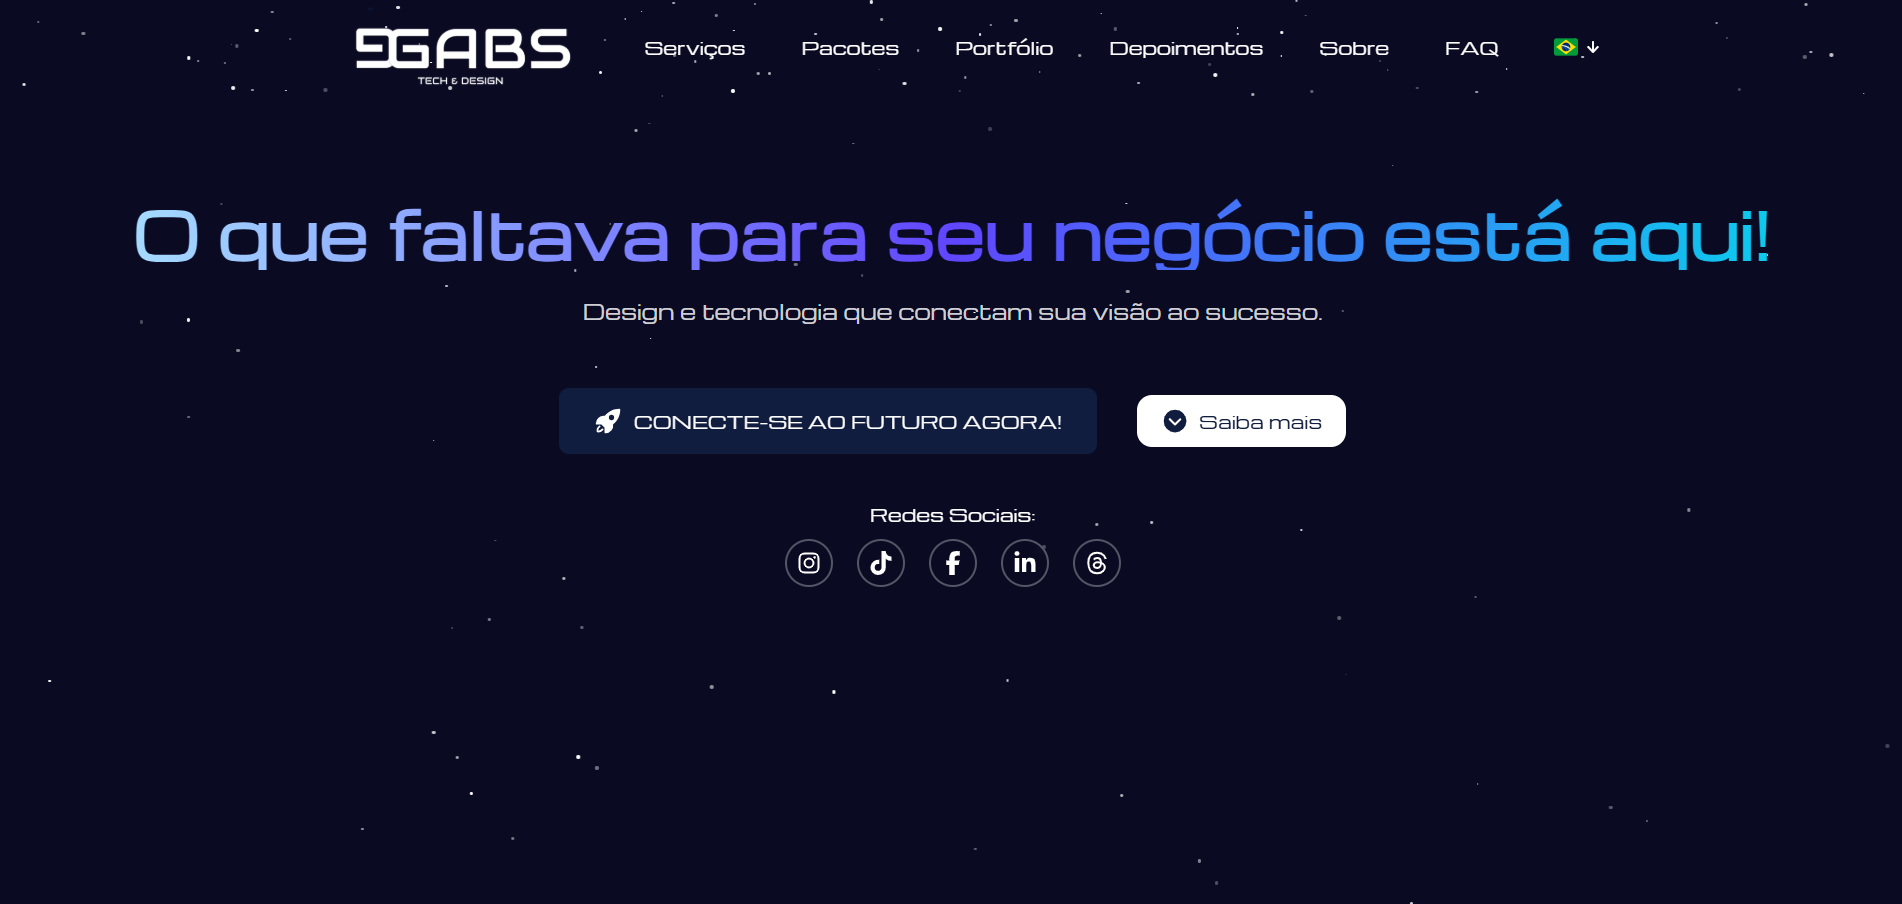
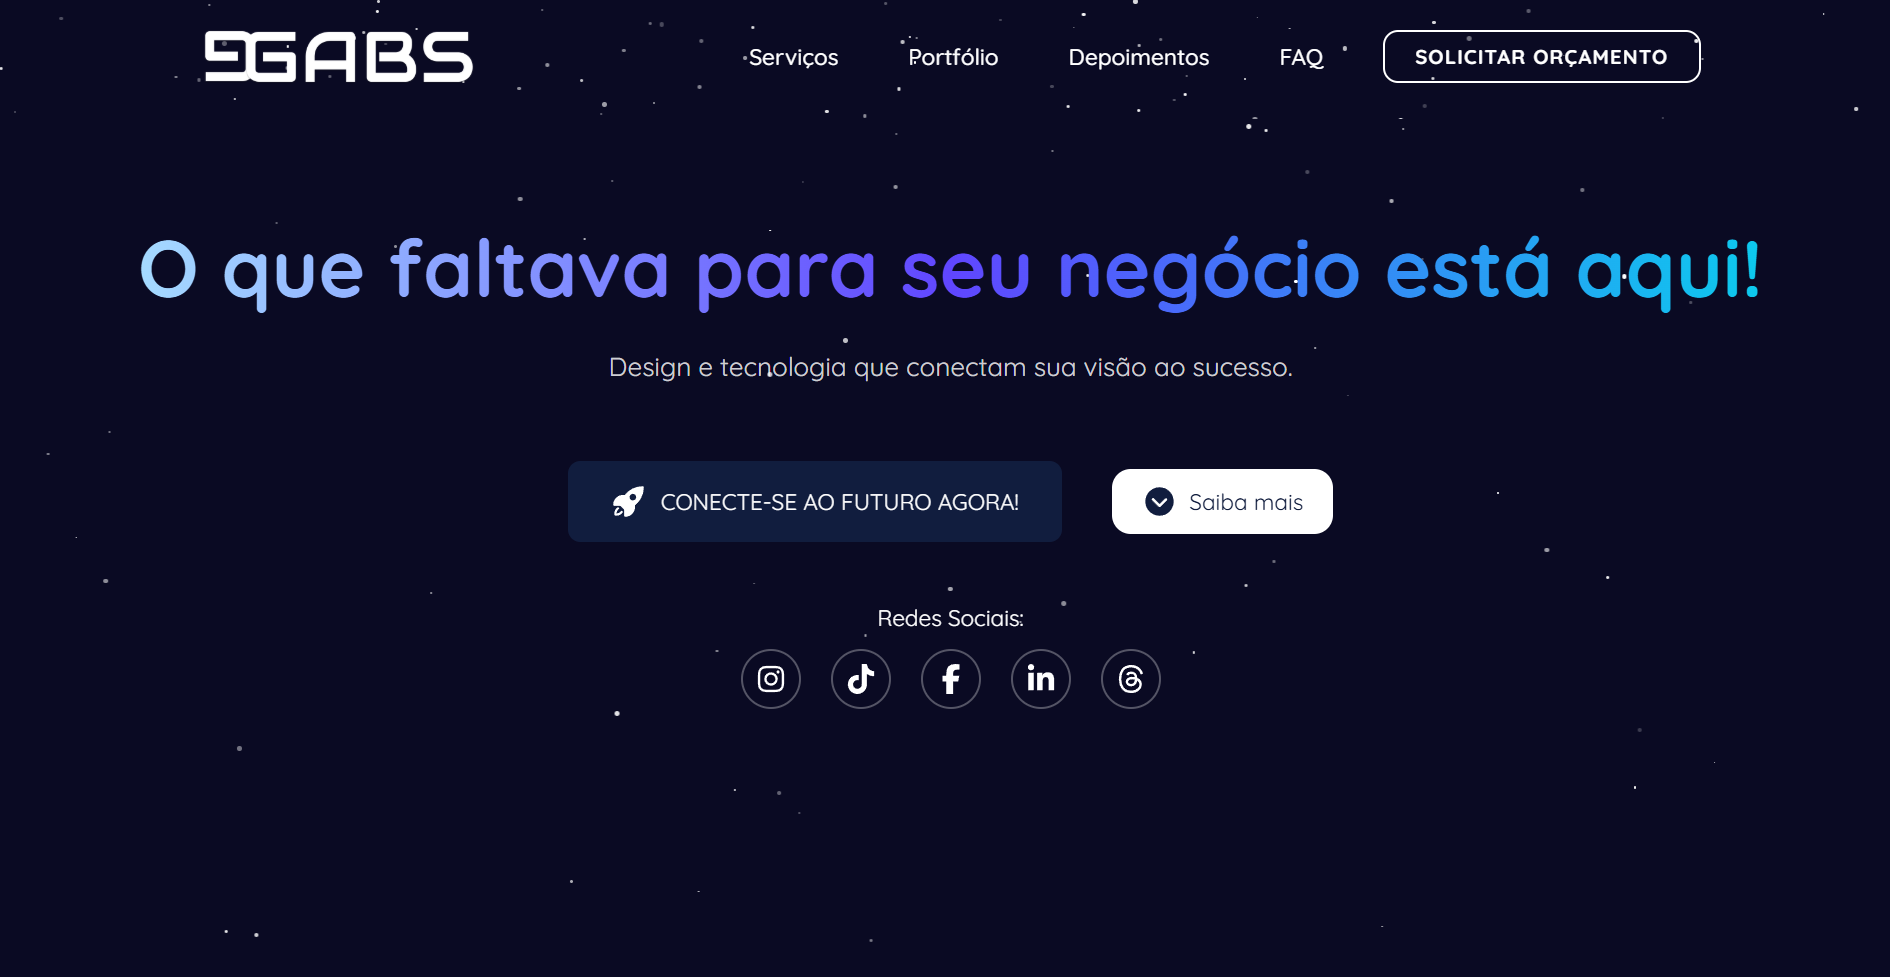
atualização dos projetos e habilidades

diff --git a/src/lib/projects-data.ts b/src/lib/projects-data.ts
@@ -9,8 +9,67 @@ import PORTFOLIOV1 from '../../public/PORTFOLIOV1.png';
 import PORTFOLIOV2 from '../../public/PORTFOLIOV2.png';
 import GGABSTECHDESIGN from '../../public/GGABSTECHDESIGN.png';
 import Caredmindedu from '../../public/CaremindEdu.png';
+import CLARAVILELA from '../../public/CLARAVILELA.png';
+import FERREIRAEDRUMOND from '../../public/FERREIRAEDRUMOND.png';
+import SMALLBUSINESSINVENTORY from '../../public/SMALLBUSINESSINVENTORY.png';
 
 export const projectsData: Omit<Project, 'id'>[] = [
+  {
+    titleKey: "project_ferreiraedrummond_title",
+    descriptionKey: "project_ferreiraedrummond_description",
+    image: FERREIRAEDRUMOND,
+    technologies: [
+      { nameKey: "skill_name_typescript", name: "TypeScript", icon: "devicon-typescript-plain colored" },
+      { nameKey: "skill_name_tailwind", name: "Tailwind CSS", icon: "devicon-tailwindcss-plain colored" },
+      { nameKey: "skill_name_nextjs", name: "Next.js", icon: "devicon-nextjs-plain colored" },
+      { nameKey: "skill_name_vercel", name: "Vercel", icon: "devicon-vercel-plain colored" },
+    ],
+    liveUrl: "https://advocacia-landing-page-delta.vercel.app/",
+    featured: true,
+    lastUpdated: "2026-01-10",
+    labelKey: "project_label_ggabs",
+    githubFrontendUrl: "https://github.com/gabrielhilins/Advocacia-landing-page",
+    githubBackendUrl: undefined,
+  },
+  {
+    titleKey: "project_smallbusinessinventory_title",
+    descriptionKey: "project_smallbusinessinventory_description",
+    image: SMALLBUSINESSINVENTORY,
+    technologies: [
+      { nameKey: "skill_name_typescript", name: "TypeScript", icon: "devicon-typescript-plain colored" },
+      { nameKey: "skill_name_tailwind", name: "Tailwind CSS", icon: "devicon-tailwindcss-plain colored" },
+      { nameKey: "skill_name_nextjs", name: "Next.js", icon: "devicon-nextjs-plain colored" },
+      { nameKey: "skill_name_java", name: "Java", icon: "devicon-java-plain colored" },
+      { nameKey: "skill_name_springboot", name: "Spring Boot", icon: "devicon-spring-original-wordmark colored" },
+      { nameKey: "skill_name_hibernate", name: "Hibernate", icon: "devicon-hibernate-plain colored" },
+      { nameKey: "skill_name_swagger", name: "Swagger", icon: "devicon-swagger-plain colored" },
+      { nameKey: "skill_name_docker", name: "Docker", icon: "devicon-docker-plain colored" },
+    ],
+    liveUrl: undefined,
+    featured: true,
+    lastUpdated: "2026-01-30",
+    labelKey: "project_label_personal",
+    githubFrontendUrl: "https://github.com/gabrielhilins/inventory-manager-frontend",
+    githubBackendUrl: "https://github.com/gabrielhilins/inventory-manager-api",
+  },
+  {
+    titleKey: "project_claravilelaportfolio_title",
+    descriptionKey: "project_claravilela_description",
+    image: CLARAVILELA,
+    technologies: [
+      { nameKey: "skill_name_typescript", name: "TypeScript", icon: "devicon-typescript-plain colored" },
+      { nameKey: "skill_name_sass", name: "Sass", icon: "devicon-sass-original colored" },
+      { nameKey: "skill_name_nextjs", name: "Next.js", icon: "devicon-nextjs-plain colored" },
+      { nameKey: "skill_name_swiper", name: "Swiper js", icon: "devicon-swiper-original colored" },
+      { nameKey: "skill_name_vercel", name: "Vercel", icon: "devicon-vercel-plain colored" },
+    ],
+    liveUrl: "https://clara-vilela-portfolio.vercel.app/",
+    featured: true,
+    lastUpdated: "2026-02-05",
+    labelKey: "project_label_ggabs",
+    githubFrontendUrl: "https://github.com/gabrielhilins/Clara-Vilela-Portfolio",
+    githubBackendUrl: undefined,
+  },
   {
     titleKey: "project_portfolio_v2_title",
     descriptionKey: "project_portfolio_v2_description",
@@ -62,7 +121,7 @@ export const projectsData: Omit<Project, 'id'>[] = [
     githubBackendUrl: undefined,
     featured: true,
     lastUpdated: "2025-07-03",
-    labelKey: "project_label_personal",
+    labelKey: "project_label_ggabs",
   },
   {
     titleKey: "project_semprenicea_title",

diff --git a/src/lib/skills-data.ts b/src/lib/skills-data.ts
@@ -72,13 +72,13 @@ export const softSkillsData: (Omit<SoftSkill, 'name' | 'proficiency'> & { nameKe
   { nameKey: "skill_name_english", icon: FaGlobe, proficiencyKey: "skill_proficiency_developed" },
   { nameKey: "skill_name_creativity", icon: FaLightbulb, proficiencyKey: "skill_proficiency_developed" },
   { nameKey: "skill_name_adaptability", icon: AiOutlineSwap, proficiencyKey: "skill_proficiency_developed" },
-  { nameKey: "skill_name_leadership", icon: FaFlag, proficiencyKey: "skill_proficiency_in_development" },
+  { nameKey: "skill_name_communication", icon: FaComments, proficiencyKey: "skill_proficiency_developed" },
   { nameKey: "skill_name_problem_solving", icon: FaPuzzlePiece, proficiencyKey: "skill_proficiency_developed" },
   { nameKey: "skill_name_results_focus", icon: FaBullseye, proficiencyKey: "skill_proficiency_developed" },
-  { nameKey: "skill_name_communication", icon: FaComments, proficiencyKey: "skill_proficiency_in_development" },
+  { nameKey: "skill_name_collaborative_work", icon: FaUsers, proficiencyKey: "skill_proficiency_developed" },
+  { nameKey: "skill_name_leadership", icon: FaFlag, proficiencyKey: "skill_proficiency_in_development" },
   { nameKey: "skill_name_time_management", icon: FaClock, proficiencyKey: "skill_proficiency_in_development" },
   { nameKey: "skill_name_learning", icon: FaBook, proficiencyKey: "skill_proficiency_in_development" },
-  { nameKey: "skill_name_collaborative_work", icon: FaUsers, proficiencyKey: "skill_proficiency_in_development" },
   { nameKey: "skill_name_entrepreneurship", icon: FaRocket, proficiencyKey: "skill_proficiency_in_development" },
   { nameKey: "skill_name_negotiation", icon: FaHandshake, proficiencyKey: "skill_proficiency_in_development" },
   { nameKey: "skill_name_pitch", icon: FaMicrophone, proficiencyKey: "skill_proficiency_in_development" },

diff --git a/src/sections/HeroSection.tsx b/src/sections/HeroSection.tsx
@@ -30,11 +30,11 @@ export default function HeroSection({ scrollToSection }: HeroSectionProps) {
   return (
     <section
       id="hero"
-      className="min-h-screen flex items-center justify-center px-4 sm:px-6 lg:px-8 pt-24 lg:pt-16 relative overflow-hidden"
+      className="min-h-screen flex items-center justify-center pt-24 lg:pt-16 relative overflow-hidden"
     >
       <div className="absolute inset-0 bg-gradient-to-br from-primary/5 via-transparent to-secondary/5 animate-pulse z-0"></div>
 
-      <div className="container mx-auto grid lg:grid-cols-2 gap-12 items-center relative z-10">
+      <div className="max-w-7xl mx-auto px-4 sm:px-6 lg:px-8 grid lg:grid-cols-2 gap-4 justify-center items-center relative z-10">
         <div className="text-center lg:text-left animate-fade-in order-2 lg:order-1">
           <p className="text-lg text-muted-foreground mb-2 font-light animate-slide-up delay-100">
             {t("hero_greeting")}

diff --git a/src/hooks/useTheme.ts b/src/hooks/useTheme.ts
@@ -6,13 +6,11 @@ export function useTheme() {
   const [darkMode, setDarkMode] = useState(false)
 
   useEffect(() => {
-    // Check local storage for user preference
+    // Check local storage for user preference, falling back to system preference
     const savedTheme = localStorage.getItem("theme")
-    const hour = new Date().getHours()
-    const isNight = hour >= 18 || hour < 6
+    const prefersDark = window.matchMedia("(prefers-color-scheme: dark)").matches
+    const initialDarkMode = savedTheme ? savedTheme === "dark" : prefersDark
 
-    // Set initial theme: use saved preference if available, otherwise use time-based
-    const initialDarkMode = savedTheme ? savedTheme === "dark" : isNight
     setDarkMode(initialDarkMode)
     if (initialDarkMode) {
       document.documentElement.classList.add("dark")

diff --git a/src/sections/ProjectsSection.tsx b/src/sections/ProjectsSection.tsx
@@ -78,7 +78,7 @@ export default function ProjectsSection({ projects }: ProjectsSectionProps) {
 
               <CardContent className="p-6 flex flex-col flex-grow">
                 <div className="flex items-center justify-between mb-3">
-                  <h3 className="text-2xl font-bold text-foreground">
+                  <h3 className="text-2xl font-bold text-foreground max-w-[70%]">
                     {t(project.titleKey)}
                   </h3>
                   {project.labelKey && (

diff --git a/src/lib/types.ts b/src/lib/types.ts
@@ -153,7 +153,7 @@ export interface Project {
   descriptionKey: string;
   image: StaticImageImport;
   technologies: Technology[]; 
-  liveUrl: string;
+  liveUrl?: string;
   githubFrontendUrl?: string;
   githubBackendUrl?: string; 
   featured: boolean;
